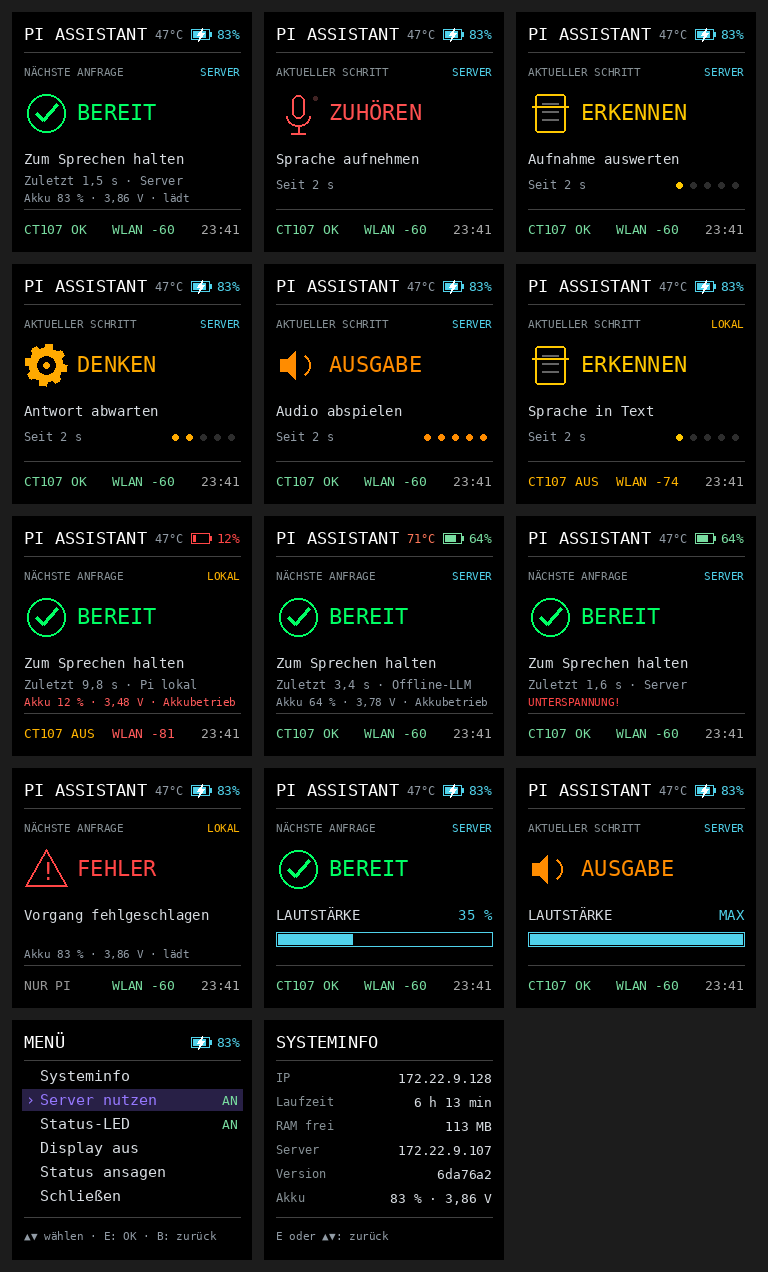
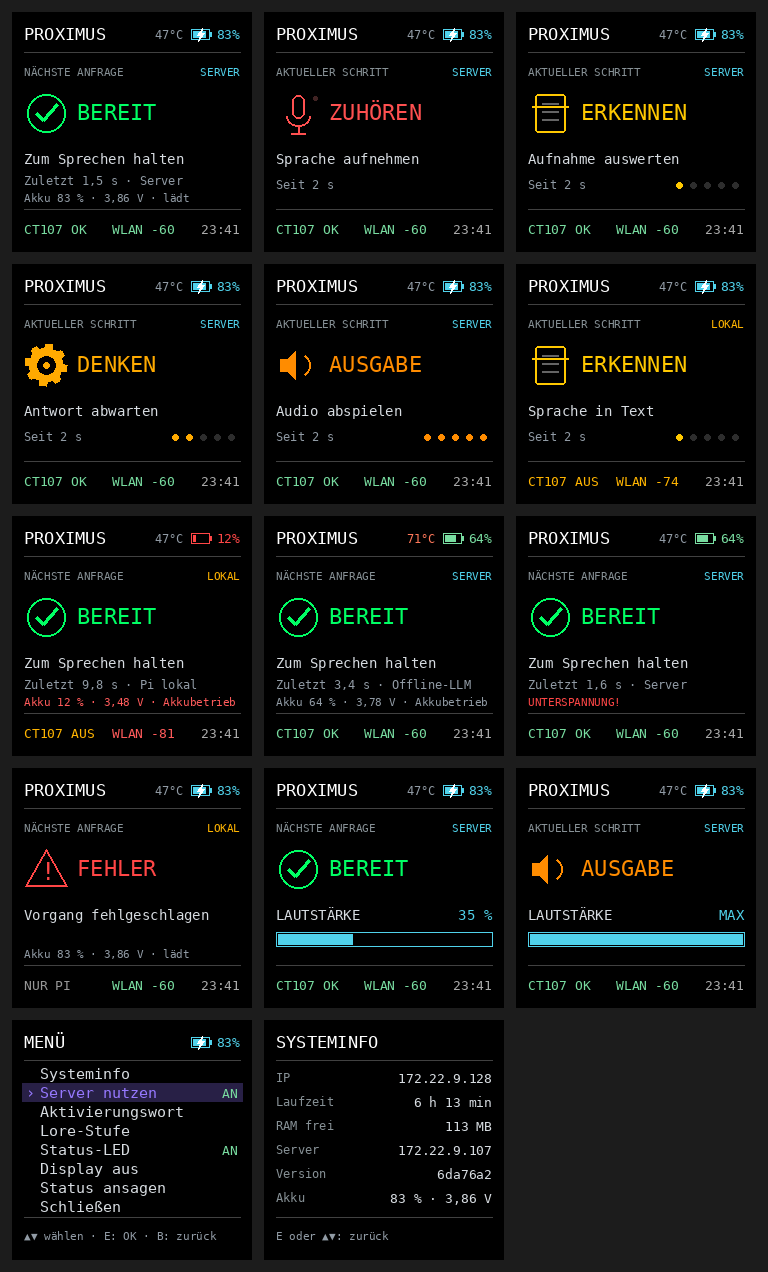
feat(display): title PROXIMUS (PI_DISPLAY_NAME)

diff --git a/src/display.py b/src/display.py
@@ -13,6 +13,7 @@ import time
 from power import Battery, BATTERY_SAMPLE_SECONDS, throttled_flags
 
 
+DEVICE_NAME = os.environ.get('PI_DISPLAY_NAME', 'PROXIMUS')
 WIDTH = 240
 HEIGHT = 240
 ENV_FILE = Path("/etc/pi-voice-assistant.env")
@@ -559,7 +560,7 @@ def render_boot(display, states):
     row_font = font(17)
     small_font = font(13)
 
-    draw.text((12, 8), "PI ASSISTANT", font=title_font, fill="white")
+    draw.text((12, 8), DEVICE_NAME, font=title_font, fill="white")
     draw.line((12, 37, 228, 37), fill=(90, 90, 90), width=1)
 
     rows = [
@@ -604,7 +605,7 @@ def render_voice(display, state, network, details=None, tick=0, elapsed=0, info=
     description, icon, step = details or STATE_DETAILS.get(state, ('', 'gear', 0))
     color = VOICE_COLORS.get(state, (220, 220, 220))
     idle = state in ('BEREIT', 'FEHLER')
-    draw.text((12, 12), 'PI ASSISTANT', font=font(17), fill='white')
+    draw.text((12, 12), DEVICE_NAME, font=font(17), fill='white')
     right_edge = 228
     if info.get('battery'):
         right_edge = draw_battery(draw, 228, 14, info['battery']) - 8
